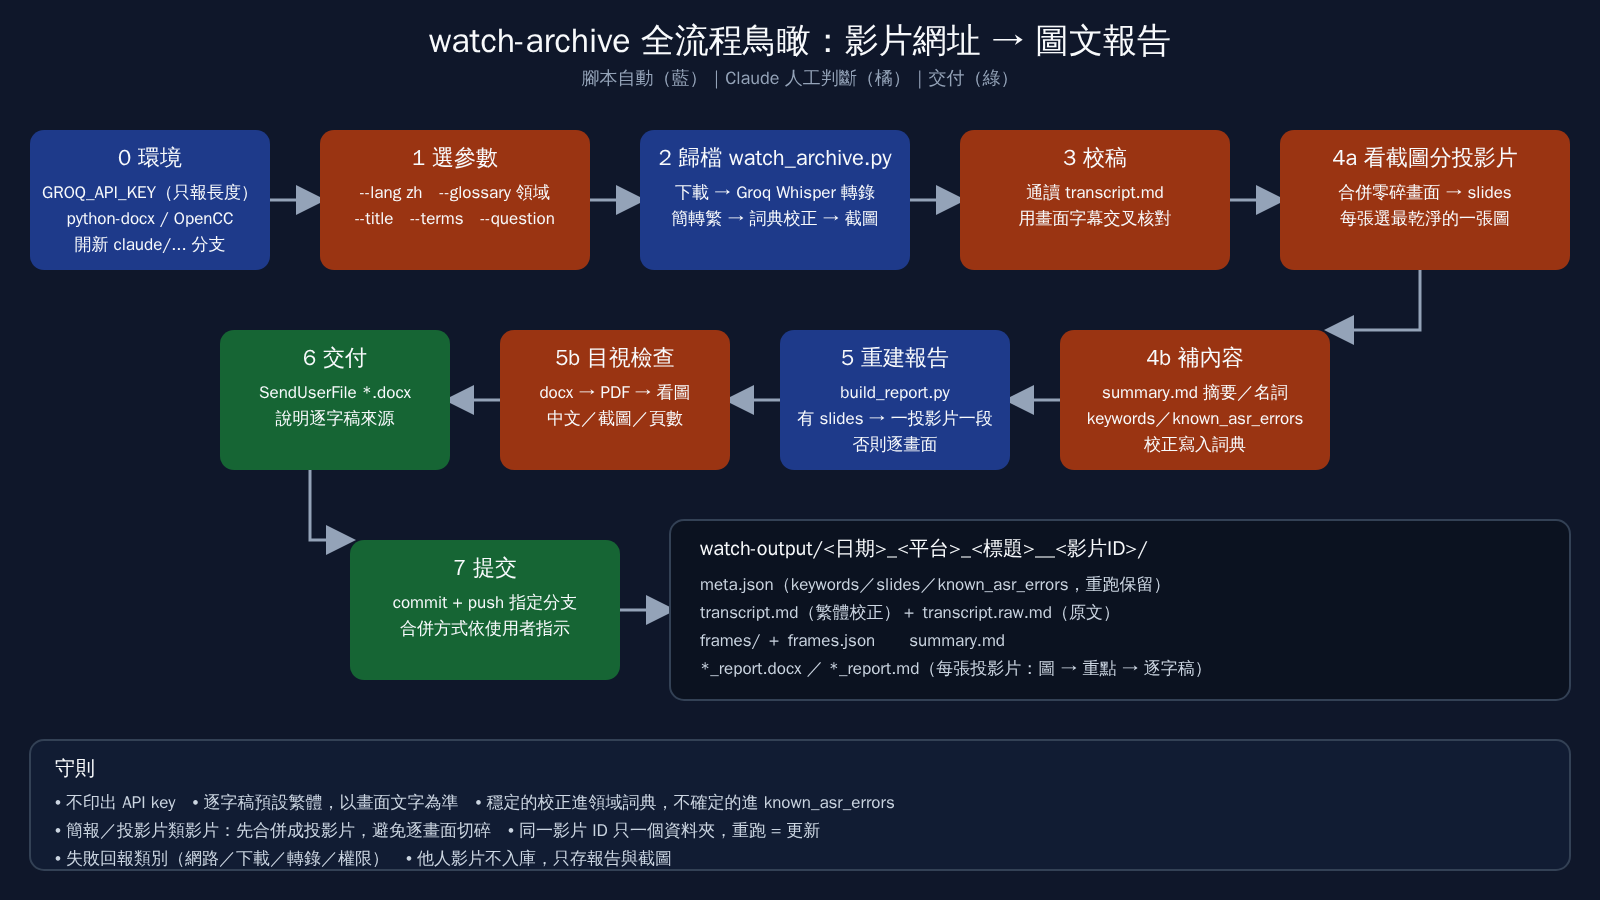
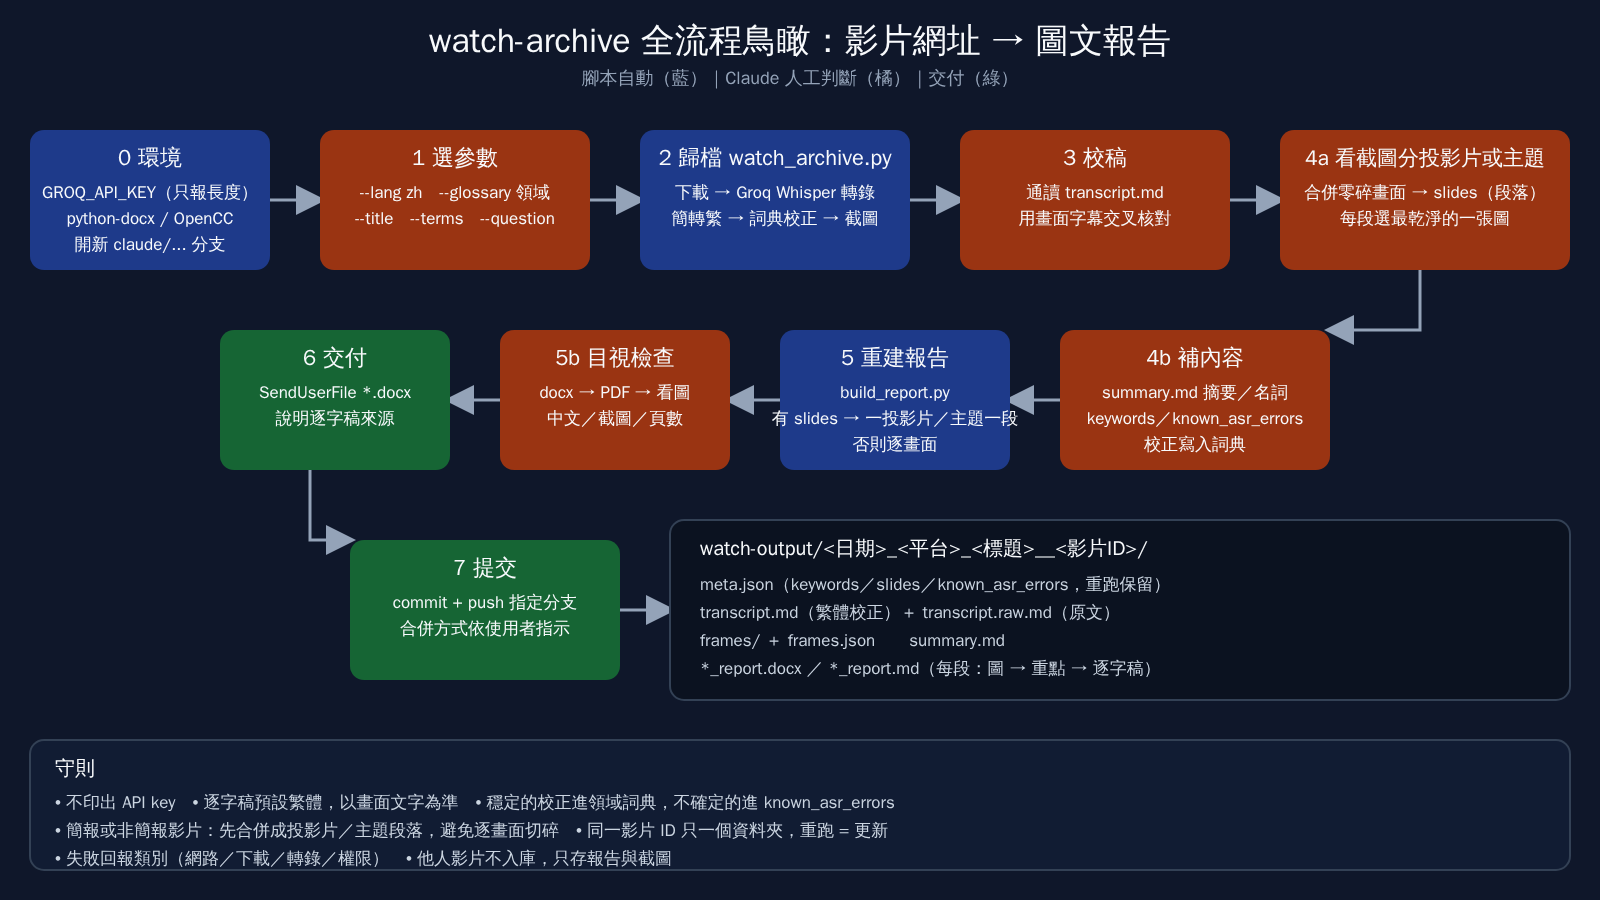
watch-archive: step 4a covers slides or topics; refresh flow diagram
Claude-Session: https://claude.ai/code/session_01NCASNHWQmSkwC4SX1McnWj

diff --git a/.claude/skills/watch-archive/SKILL.md b/.claude/skills/watch-archive/SKILL.md
@@ -13,7 +13,7 @@ description: 看影片並歸檔成圖文報告。使用者給影片網址（Face
 
 ```text
 網址 ─▶ 0 環境 ─▶ 1 選參數 ─▶ 2 歸檔(下載→Groq 轉錄→轉繁體→詞典校正→截圖→報告)
-     ─▶ 3 校稿 ─▶ 4a 看截圖分投影片(slides) ─▶ 4b 補內容(摘要/關鍵字/校正)
+     ─▶ 3 校稿 ─▶ 4a 看截圖分投影片或主題(slides) ─▶ 4b 補內容(摘要/關鍵字/校正)
      ─▶ 5 重建報告 ─▶ 5b 目視檢查 ─▶ 6 交付 ─▶ 7 提交
 ```
 
@@ -43,10 +43,10 @@ description: 看影片並歸檔成圖文報告。使用者給影片網址（Face
    - 用 `frames/`（Read 看圖）上的畫面字幕交叉核對；以畫面文字為準。
    - **不要手改 `transcript.md` 以外的原始轉錄**；`transcript.raw.md` 是轉換前原文，保持不動。
 
-4. **補內容**（4a 先做投影片分段，再做 4b）：
+4. **補內容**（4a 先做投影片／主題分段，再做 4b）：
    - 改寫 `summary.md`：一句話重點、含時間戳的重點表、名詞與縮寫說明、轉錄校正備註。評論／立場性影片寫「講者主張…」，數字註明未經查證。
    - 編輯 `meta.json`（重跑時以下欄位會保留）：`keywords`（約 8–10 個）、`section_keywords`（key 為畫面起始時間，如 `"00:12"`）、`known_asr_errors`（`{"time","heard","expected"}`，推測的要標「推測」）、`slides`（見下）。
-   - **投影片分段**：影片是簡報／投影片時，看 `frames/` 後在 `meta.json` 寫 `slides`：`[{"start":"00:06","frame":"frame_0019.jpg","title":"…","note":"本張投影片重點","keywords":[…]}]`，報告就會「一張投影片一張圖 + 說明文字 + 該段逐字稿」，不再逐畫面切碎。`frame` 選字幕與游標最乾淨的一張；沒有 `slides` 時才退回逐畫面。
+   - **投影片／主題分段**：看 `frames/` 後在 `meta.json` 寫 `slides`。簡報類影片一張投影片一段；沒有投影片的影片（訪談、實拍、操作畫面）則依講述主題或場景切段，每段的 `start` 取該主題開始的時間、`title` 寫主題名：`[{"start":"00:06","frame":"frame_0019.jpg","title":"…","note":"本張投影片重點","keywords":[…]}]`，報告就會「每段一張圖 + 說明文字 + 該段逐字稿」，不再逐畫面切碎。`frame` 選字幕與游標最乾淨的一張；沒有 `slides` 時才退回逐畫面。
    - **校正去哪裡**：穩定、不會誤傷的專有名詞錯誤 → 對應領域詞典 `glossary/domains/<領域>.json` 的 `replace`（key 用繁體、至少 3 字或帶上下文）或 `terms`；任何主題都成立的 → `glossary/common.json`；只這支影片成立或不確定的 → `known_asr_errors`。
    - 詞典新增後，對目前逐字稿直接替換並寫入 `meta.json.glossary_applied`，不必為此重跑 Whisper。
 
